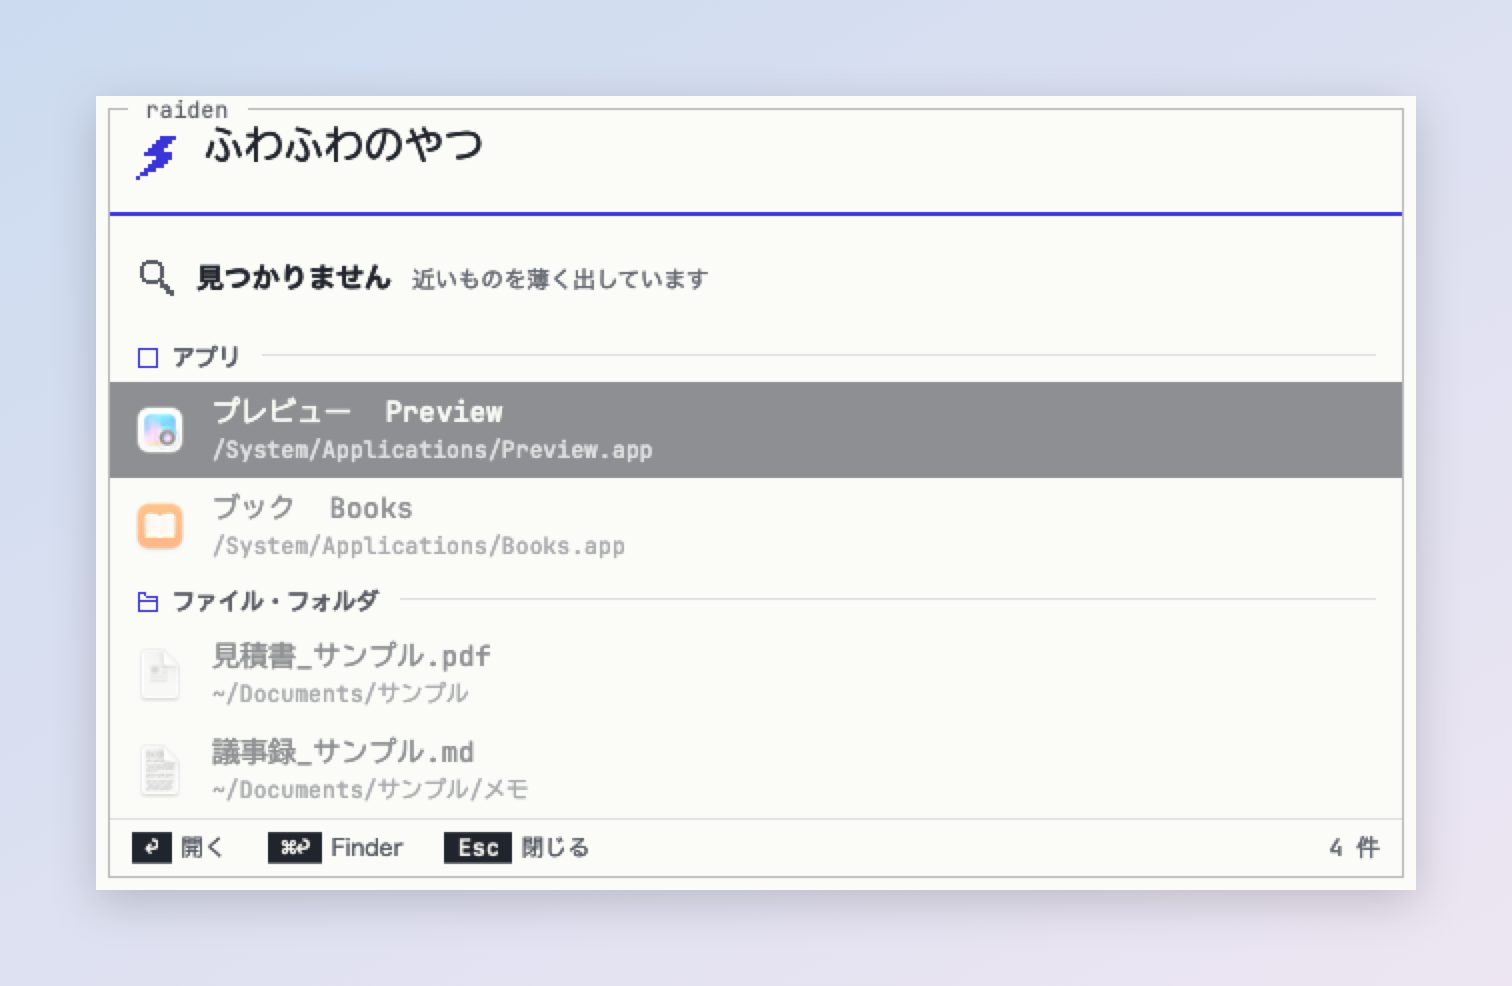
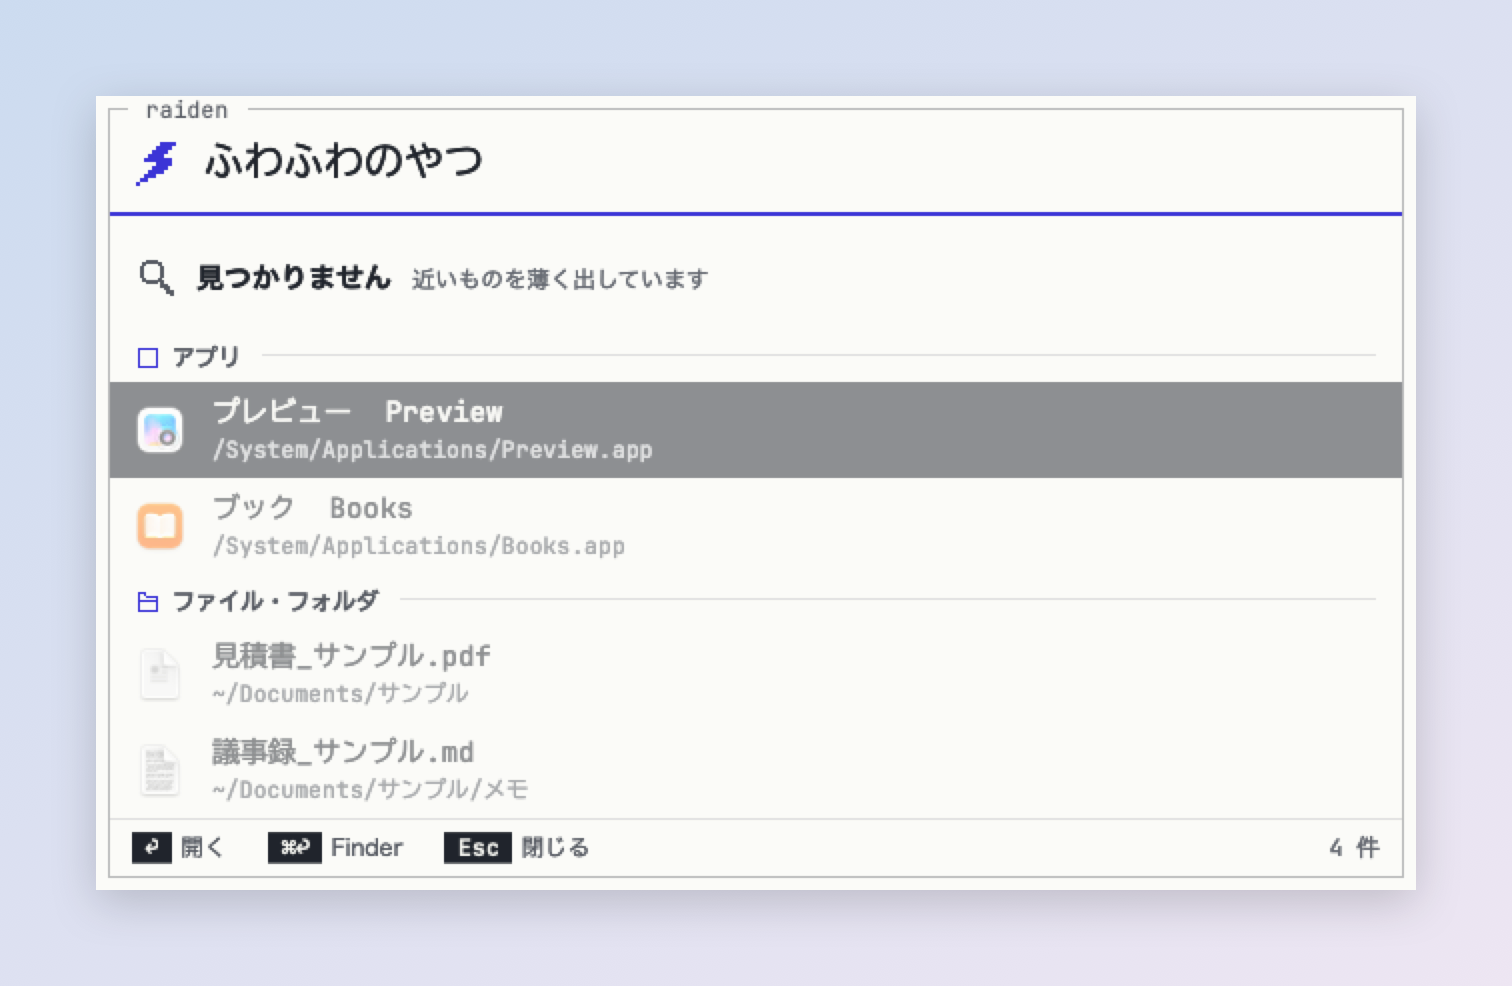
入力欄の稲妻と字を、枠の上の線とフォーカスの線のあいだの真ん中に下げる（上に寄っていた）

Changed region(s): [[0.0933, 0.1217, 0.3419, 0.1826]]

diff --git a/app/Sources/Raiden/SearchPanel.swift b/app/Sources/Raiden/SearchPanel.swift
@@ -605,10 +605,12 @@ final class SearchPanelController: NSObject, NSTextFieldDelegate, NSWindowDelega
             status.centerYAnchor.constraint(equalTo: statusBox.centerYAnchor),
             status.widthAnchor.constraint(lessThanOrEqualToConstant: 220),
             glyph.leadingAnchor.constraint(equalTo: content.leadingAnchor, constant: 20),
-            glyph.centerYAnchor.constraint(equalTo: content.topAnchor, constant: Self.fieldHeight / 2 + 2),
+            // 稲妻と入力欄は、枠の上の線とフォーカスの線のあいだの真ん中（7〜58pt の中央 ≈ 33）にそろえる
+            glyph.centerYAnchor.constraint(equalTo: content.topAnchor, constant: (KFrameView.inset + 1 + Self.fieldHeight - 2) / 2 + 3),
             field.leadingAnchor.constraint(equalTo: glyph.trailingAnchor, constant: 10),
             field.trailingAnchor.constraint(equalTo: content.trailingAnchor, constant: -20),
-            field.centerYAnchor.constraint(equalTo: glyph.centerYAnchor),
+            // 入力欄の字は欄の上寄りに描かれる（BIZ UDゴシックの行の高さ）ので、字の真ん中が稲妻とそろうよう下げる
+            field.centerYAnchor.constraint(equalTo: glyph.centerYAnchor, constant: Self.fieldTextNudge),
             focusLine.topAnchor.constraint(equalTo: content.topAnchor, constant: Self.fieldHeight - 2),
             focusLine.heightAnchor.constraint(equalToConstant: 2),
             focusLine.leadingAnchor.constraint(equalTo: content.leadingAnchor, constant: inset + 1),
@@ -794,6 +796,7 @@ final class SearchPanelController: NSObject, NSTextFieldDelegate, NSWindowDelega
     static var maxPanelHeight: CGFloat { visibleFrame.height * 0.65 }
 
     /// 一覧の下から窓の下端まで（すき間・キーの帯・枠）
+    static let fieldTextNudge: CGFloat = 5
     static var chromeBottom: CGFloat { 6 + bandHeight + KFrameView.inset + 1 }
 
     private func layoutPanel(top: CGFloat, list: CGFloat) {
